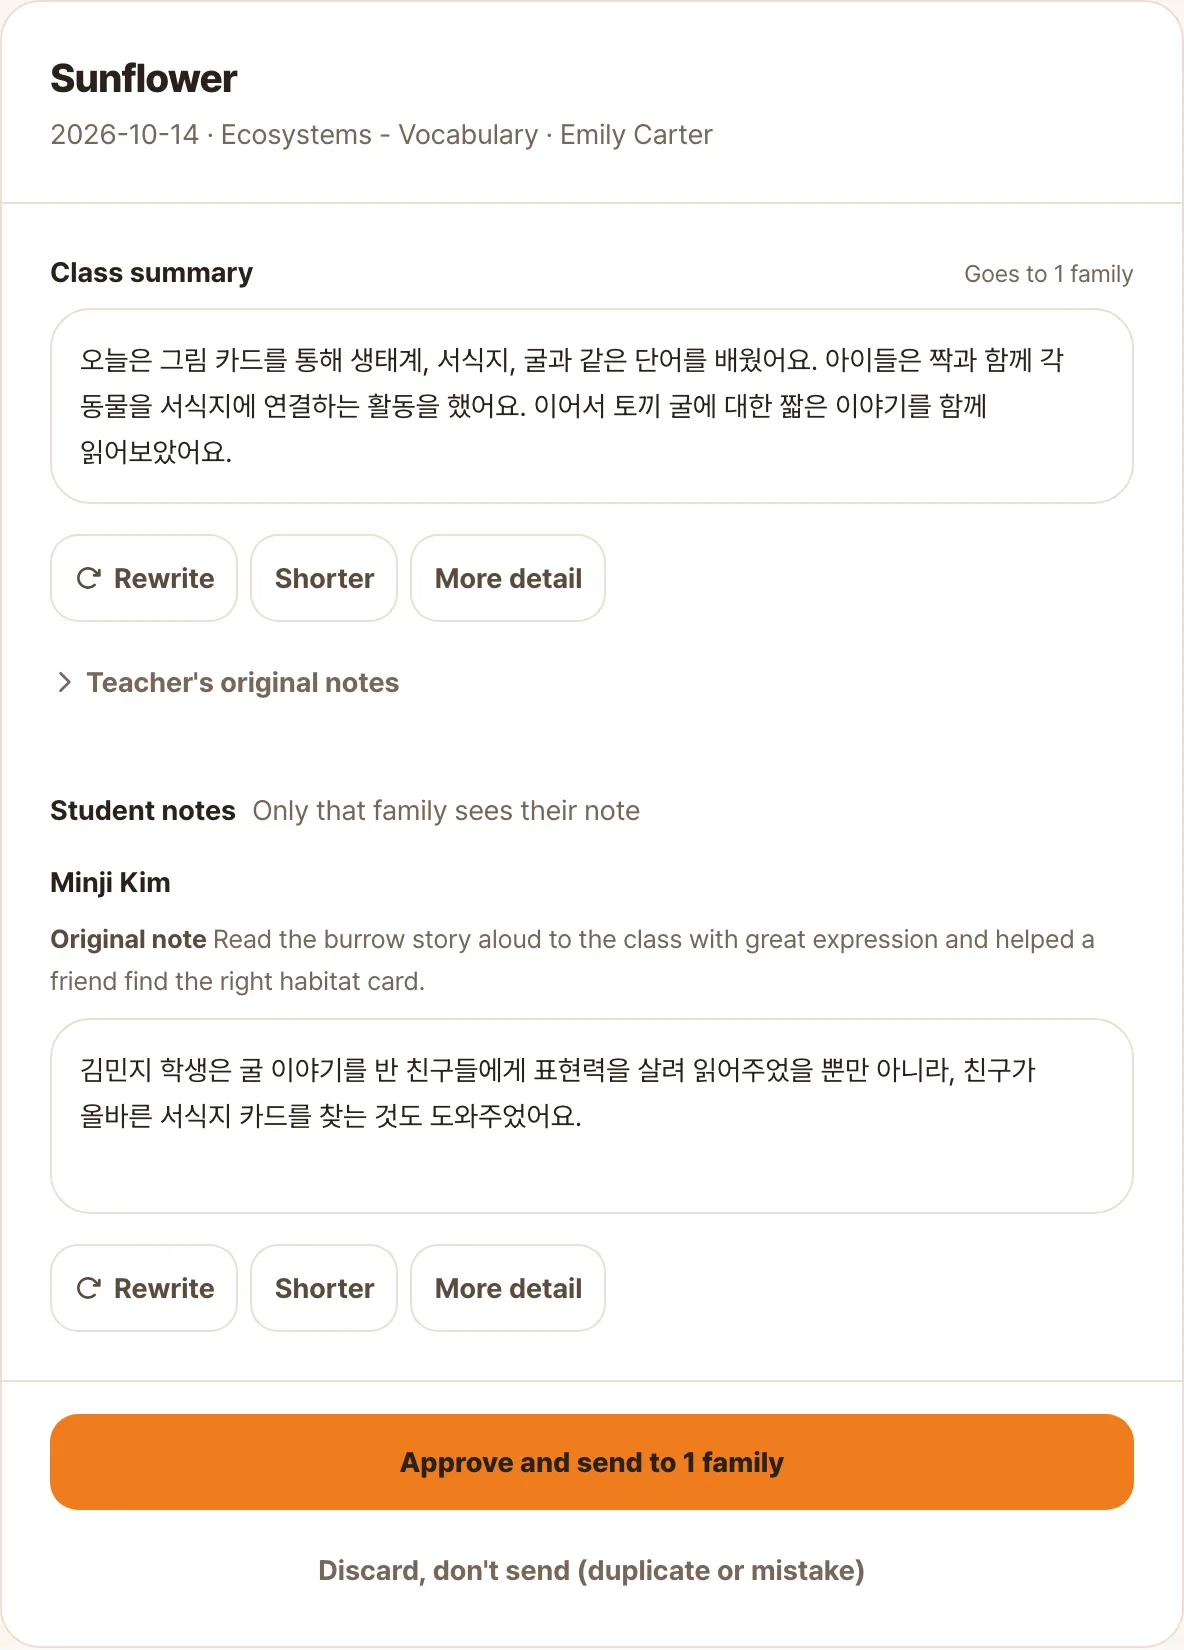
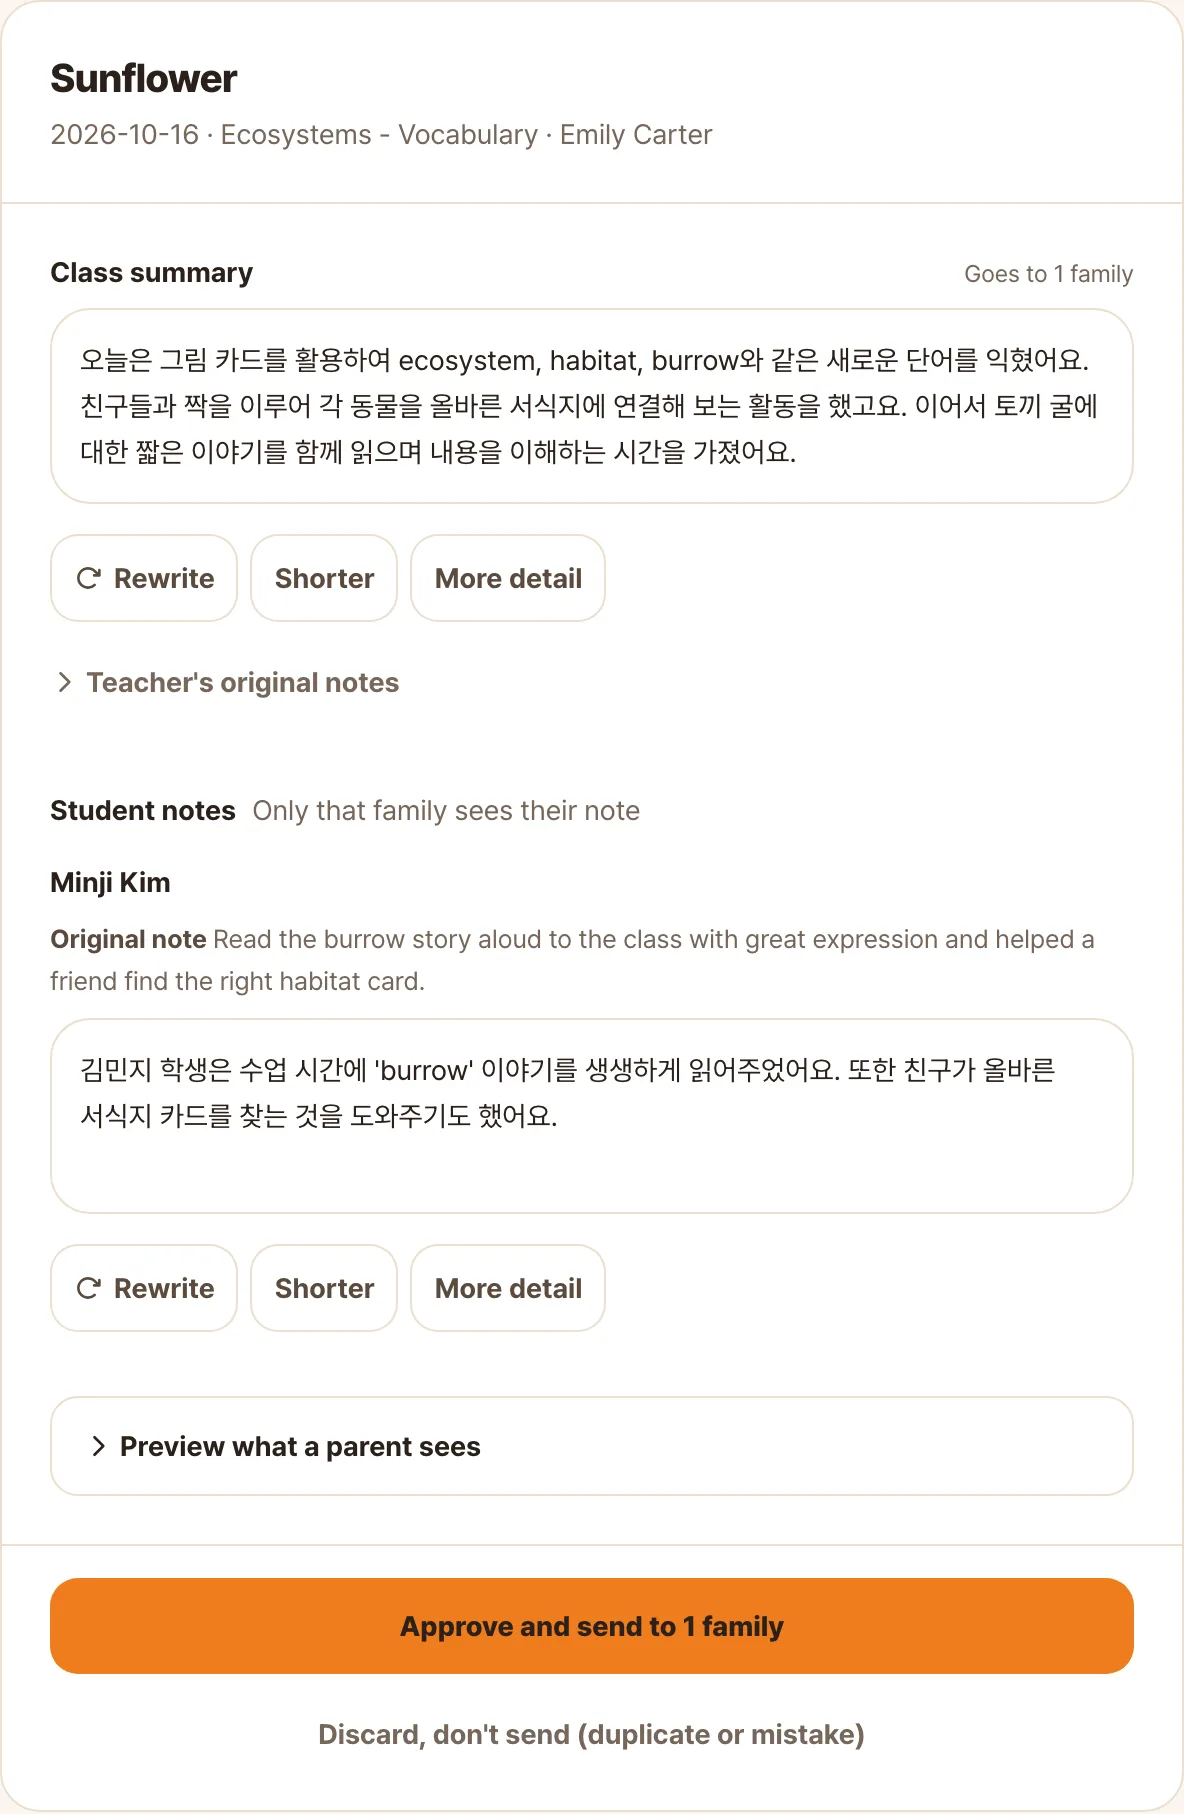
Show Korean Chekki Schools screenshots on the Korean case study
The Korean page used the English screenshots, which made Chekki look like
a foreign product to Korean directors and parents. It now has its own
Korean captures (-ko.webp), and the English page keeps English ones.

Also retakes the Korean-teacher review and parent report shots. The old
parent shot read "민지은" because the screenshot script shortened the
name and left the original particle; both shots now show the approved
note word for word ("김민지 학생은").

diff --git a/components/caseStudyData.ts b/components/caseStudyData.ts
@@ -2074,16 +2074,16 @@ function scoreAssessment(answers) {
     tagline: "Chekki 플랫폼의 교직원용 축으로, 현재 최종 테스트 중입니다. 원장, 원어민 교사, 한국인 교사 화면이 역할별로 분리되어 있으며, 학부모용 Chekki AI 앱과 동일한 채점 엔진을 공유합니다.",
     liveUrl: "https://www.chekkiai.com/schools",
     screenshots: [
-      { label: "Schools 랜딩", url: "/screenshots/chekki-schools/01-schools-landing.webp", subLabel: "교실 기록은 영어로, 리포트는 한국어로" },
-      { label: "원장 대시보드", url: "/screenshots/chekki-schools/02-director-dashboard.webp", subLabel: "반별 오늘의 리포트" },
-      { label: "학생", url: "/screenshots/chekki-schools/03-director-students.webp", subLabel: "원장: 학부모 초대 및 명단" },
-      { label: "반", url: "/screenshots/chekki-schools/04-director-classes.webp", subLabel: "원장: 반별 최근 14일 기록 현황" },
-      { label: "교사", url: "/screenshots/chekki-schools/05-director-teachers.webp", subLabel: "원장: 원어민·한국인 교사 초대" },
-      { label: "음성 수업 기록", url: "/screenshots/chekki-schools/06-ft-daily-log.webp", subLabel: "원어민 교사: 음성으로 채우기" },
-      { label: "기록 내역", url: "/screenshots/chekki-schools/07-ft-log-history.webp", subLabel: "원어민 교사: 학부모가 받은 내용 확인" },
-      { label: "반 현황", url: "/screenshots/chekki-schools/08-kt-class-overview.webp", subLabel: "한국인 교사: 명단 및 스캔 현황" },
-      { label: "반 단위 검토", url: "/screenshots/chekki-schools/09-kt-review.webp", subLabel: "한국인 교사: 한 번 검토, 모든 가정에 전달" },
-      { label: "학부모 반 리포트", url: "/screenshots/chekki-schools/10-parent-class-report.webp", subLabel: "학부모 앱: 반 요약과 자기 아이 메모" }
+      { label: "Schools 랜딩", url: "/screenshots/chekki-schools/01-schools-landing-ko.webp", subLabel: "교실 기록은 영어로, 리포트는 한국어로" },
+      { label: "원장 대시보드", url: "/screenshots/chekki-schools/02-director-dashboard-ko.webp", subLabel: "반별 오늘의 리포트" },
+      { label: "학생", url: "/screenshots/chekki-schools/03-director-students-ko.webp", subLabel: "원장: 학부모 초대 및 명단" },
+      { label: "반", url: "/screenshots/chekki-schools/04-director-classes-ko.webp", subLabel: "원장: 반별 최근 14일 기록 현황" },
+      { label: "교사", url: "/screenshots/chekki-schools/05-director-teachers-ko.webp", subLabel: "원장: 원어민·한국인 교사 초대" },
+      { label: "음성 수업 기록", url: "/screenshots/chekki-schools/06-ft-daily-log-ko.webp", subLabel: "원어민 교사: 음성으로 채우기" },
+      { label: "기록 내역", url: "/screenshots/chekki-schools/07-ft-log-history-ko.webp", subLabel: "원어민 교사: 학부모가 받은 내용 확인" },
+      { label: "반 현황", url: "/screenshots/chekki-schools/08-kt-class-overview-ko.webp", subLabel: "한국인 교사: 명단 및 스캔 현황" },
+      { label: "반 단위 검토", url: "/screenshots/chekki-schools/09-kt-review-ko.webp", subLabel: "한국인 교사: 한 번 검토, 모든 가정에 전달" },
+      { label: "학부모 반 리포트", url: "/screenshots/chekki-schools/10-parent-class-report-ko.webp", subLabel: "학부모 앱: 반 요약과 자기 아이 메모" }
     ],
     stats: [
       { label: "상태", value: "최종 테스트 중" },
